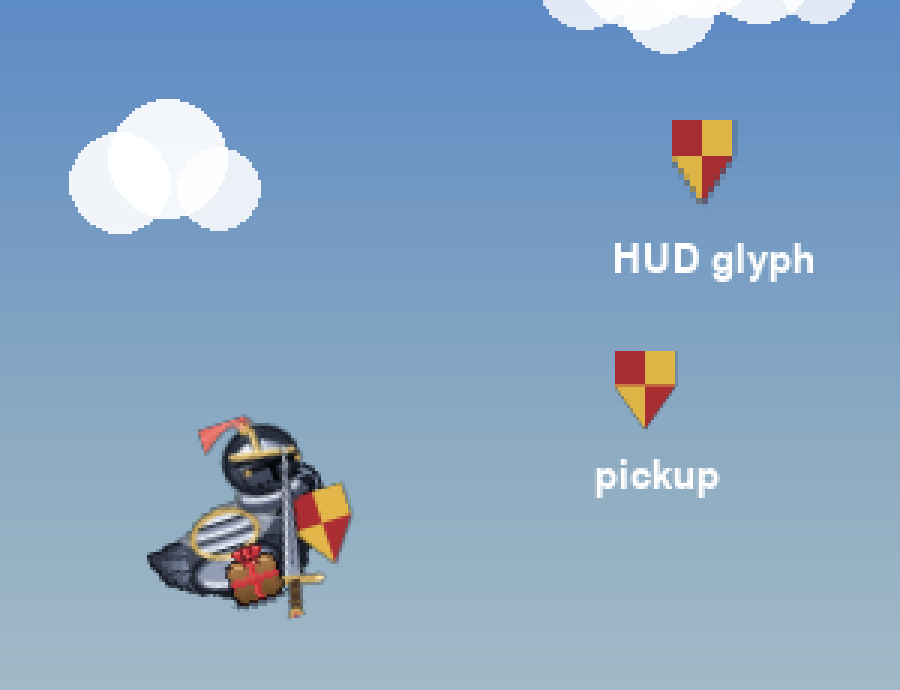
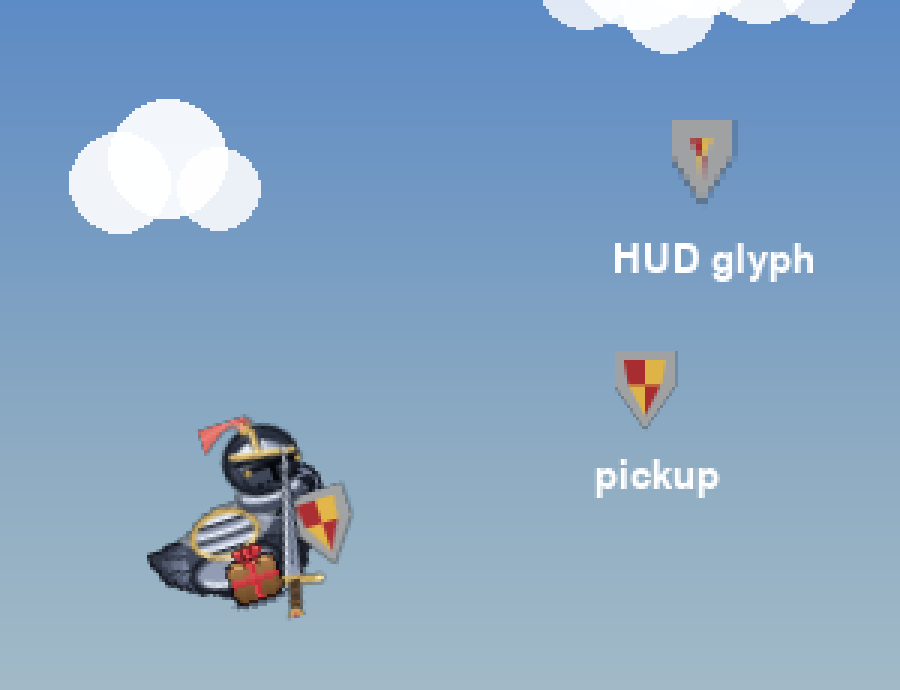
Restore the gray rim on the K7 shield, neutral (no blue)
Removing the rim entirely went too far — the design has a gray steel
perimeter. Bring it back, but use a neutral gray (162,163,164) instead
of the blue-biased steel so neither the rim nor its anti-aliased edges
read as dark-blue pixels. Drop the navy outline. Verified 0 dark-blue
pixels across the pickup, HUD glyph, and chest shield.

https://claude.ai/code/session_01Ms85cBEeRiAtxZBCNh5vN5

Changed region(s): [[0.7467, 0.1522, 0.84, 0.3043], [0.6844, 0.487, 0.7778, 0.6087], [0.3111, 0.7, 0.4044, 0.8217]]

diff --git a/game/knight_skin.py b/game/knight_skin.py
@@ -18,8 +18,9 @@ from game import parrot
 # Steel + heraldry palette (shared across helm / breastplate / shield).
 OL = (24, 28, 38); D = (70, 78, 96); MID = (146, 156, 178); HI = (238, 244, 255)
 BRASS = (208, 174, 98); BRASS_HI = (255, 232, 168); CRIM = (160, 44, 48)
-# Canonical K7 heraldry (matches tools/render_shield_icon_variants draw_kn_quarterly).
-GULES = (170, 46, 50); ORC = (226, 182, 72)
+# Canonical K7 heraldry. STM is the gray steel rim — kept NEUTRAL (no blue
+# bias) so neither it nor its anti-aliased edges read as blue pixels.
+STM = (162, 163, 164); GULES = (170, 46, 50); ORC = (226, 182, 72)
 
 # Shield on the front of the chest (fx, fy, w-frac, h-frac of the body rect).
 _SHIELD_POS = (0.92, 0.58, 0.36, 0.46)
@@ -93,17 +94,31 @@ def _heater_pts(w, h, pad):
     return [(pad, pad), (w - pad, pad), (w - pad, h * 0.46), (w / 2, h - pad), (pad, h * 0.46)]
 
 
+def _inset(points, k):
+    cx = sum(p[0] for p in points) / len(points)
+    cy = sum(p[1] for p in points) / len(points)
+    out = []
+    for x, y in points:
+        dx, dy = cx - x, cy - y
+        d = math.hypot(dx, dy) or 1.0
+        out.append((x + dx / d * k, y + dy / d * k))
+    return out
+
+
 def _shield(big, s):
-    """K7 heater: quarterly gules/or. Flat heraldry — no steel rim/outline."""
+    """K7 heater: quarterly gules/or inside a gray steel rim (matches the
+    design). No dark-navy outline — the rim is the perimeter."""
     w, h = big.get_size(); cx, cy = w / 2, h * 0.45
     pts = _heater_pts(w, h, 2 * s)
+    pygame.draw.polygon(big, STM, pts)
+    fpts = _inset(pts, 4.5 * s)
     tmp = pygame.Surface((w, h), pygame.SRCALPHA)
     pygame.draw.rect(tmp, GULES, (0, 0, int(cx), int(cy)))
     pygame.draw.rect(tmp, ORC, (int(cx), 0, int(w - cx), int(cy)))
     pygame.draw.rect(tmp, ORC, (0, int(cy), int(cx), int(h - cy)))
     pygame.draw.rect(tmp, GULES, (int(cx), int(cy), int(w - cx), int(h - cy)))
     mask = pygame.Surface((w, h), pygame.SRCALPHA)
-    pygame.draw.polygon(mask, (255, 255, 255, 255), pts)
+    pygame.draw.polygon(mask, (255, 255, 255, 255), fpts)
     tmp.blit(mask, (0, 0), special_flags=pygame.BLEND_RGBA_MIN)
     big.blit(tmp, (0, 0))
 
